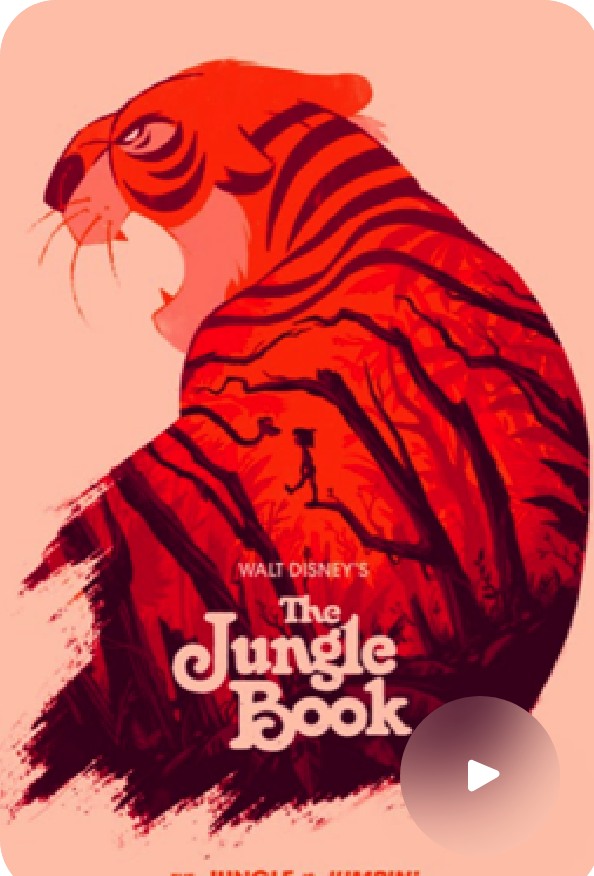
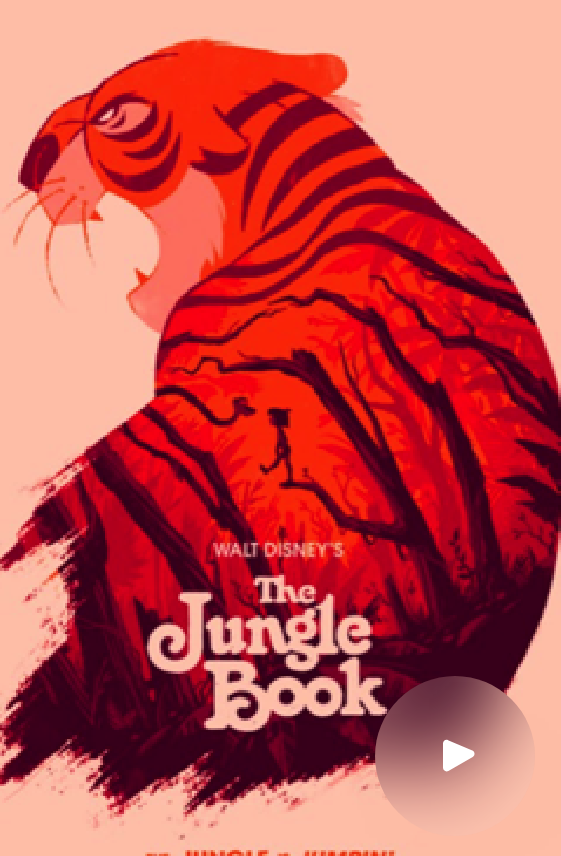
Best seller list view item part one

diff --git a/lib/Features/Home/Presentation/views/widgets/BestSellerCard.dart b/lib/Features/Home/Presentation/views/widgets/BestSellerCard.dart
@@ -1,0 +1,33 @@
+import 'package:booklt_store/core/utils/assets.dart';
+import 'package:flutter/material.dart';
+
+import 'BookDataCard.dart';
+
+
+class BestSellerCard extends StatelessWidget {
+  const BestSellerCard({super.key});
+
+  @override
+  Widget build(BuildContext context) {
+    return SizedBox(
+      height:125 ,
+        child: Row(
+            children: [
+            AspectRatio(
+                aspectRatio: 2.5/4,
+                child: Container(
+                  decoration: BoxDecoration(
+                      image: DecorationImage(
+                          fit: BoxFit.fill,
+                          image: AssetImage(AssetsData.testImage)
+                      )
+                  ),
+                ),
+            ),
+            SizedBox(width: 30,),
+            BookDataCard()
+          ],
+        ),
+    );
+  }
+}

diff --git a/lib/Features/Home/Presentation/views/widgets/BookDataCard.dart b/lib/Features/Home/Presentation/views/widgets/BookDataCard.dart
@@ -1,0 +1,29 @@
+import 'package:flutter/material.dart';
+
+import '../../../../../core/utils/styles.dart';
+
+class BookDataCard extends StatelessWidget {
+  const BookDataCard({
+    super.key,
+  });
+
+  @override
+  Widget build(BuildContext context) {
+    return Column(
+      children: [
+        Text("The jungle Book",style: Styles.titleMedium,),
+        SizedBox(height: 4,),
+        Text("Rudyard Kipling",style: Styles.titleSmall,),
+        SizedBox(height: 4,),
+        Row(
+          mainAxisAlignment: MainAxisAlignment.spaceBetween,
+          children: [
+            Text("39\$",style: Styles.titleMedium,),
+            SizedBox(width: 60,),
+            Text("3",style: Styles.titleMedium,)
+          ],
+        )
+      ],
+    );
+  }
+}

diff --git a/lib/Features/Home/Presentation/views/widgets/HomeViewBody.dart b/lib/Features/Home/Presentation/views/widgets/HomeViewBody.dart
@@ -1,6 +1,7 @@
 import 'package:flutter/material.dart';
 
 import '../../../../../core/utils/styles.dart';
+import 'BestSellerCard.dart';
 import 'BookCard.dart';
 import 'CustomAppBar.dart';
 import 'ListView.dart';
@@ -20,7 +21,10 @@ class HomeBody extends StatelessWidget {
           SizedBox(height: 50,),
           Align(
             alignment: Alignment.centerLeft,
-              child: Text("Best Seller",style: Styles.titleMedium,))
+              child: Text("Best Seller",style: Styles.titleMedium,)
+          ),
+          SizedBox(height:20 ,),
+          BestSellerCard()
         ],
       ),
     );

diff --git a/lib/core/utils/styles.dart b/lib/core/utils/styles.dart
@@ -1,10 +1,18 @@
 import 'package:flutter/cupertino.dart';
+import 'package:flutter/material.dart';
 
 abstract class Styles
 {
   static const titleMedium=TextStyle(
     fontSize:18 ,
     fontWeight: FontWeight.w600,
+    // fontFamily: ,
+  );
+
+  static const titleSmall=TextStyle(
+    fontSize:14 ,
+    fontWeight: FontWeight.w300,
+    color: Colors.grey
     // fontFamily: ,
   );
 

diff --git a/lib/models/bookModel.dart b/lib/models/bookModel.dart
@@ -1,0 +1,13 @@
+class BookModel
+{
+  final String title,author,price,image;
+  final double rate;
+
+  BookModel({
+    required this.title,
+    required this.author,
+    required this.price,
+    required this.image,
+    required this.rate
+  });
+}
